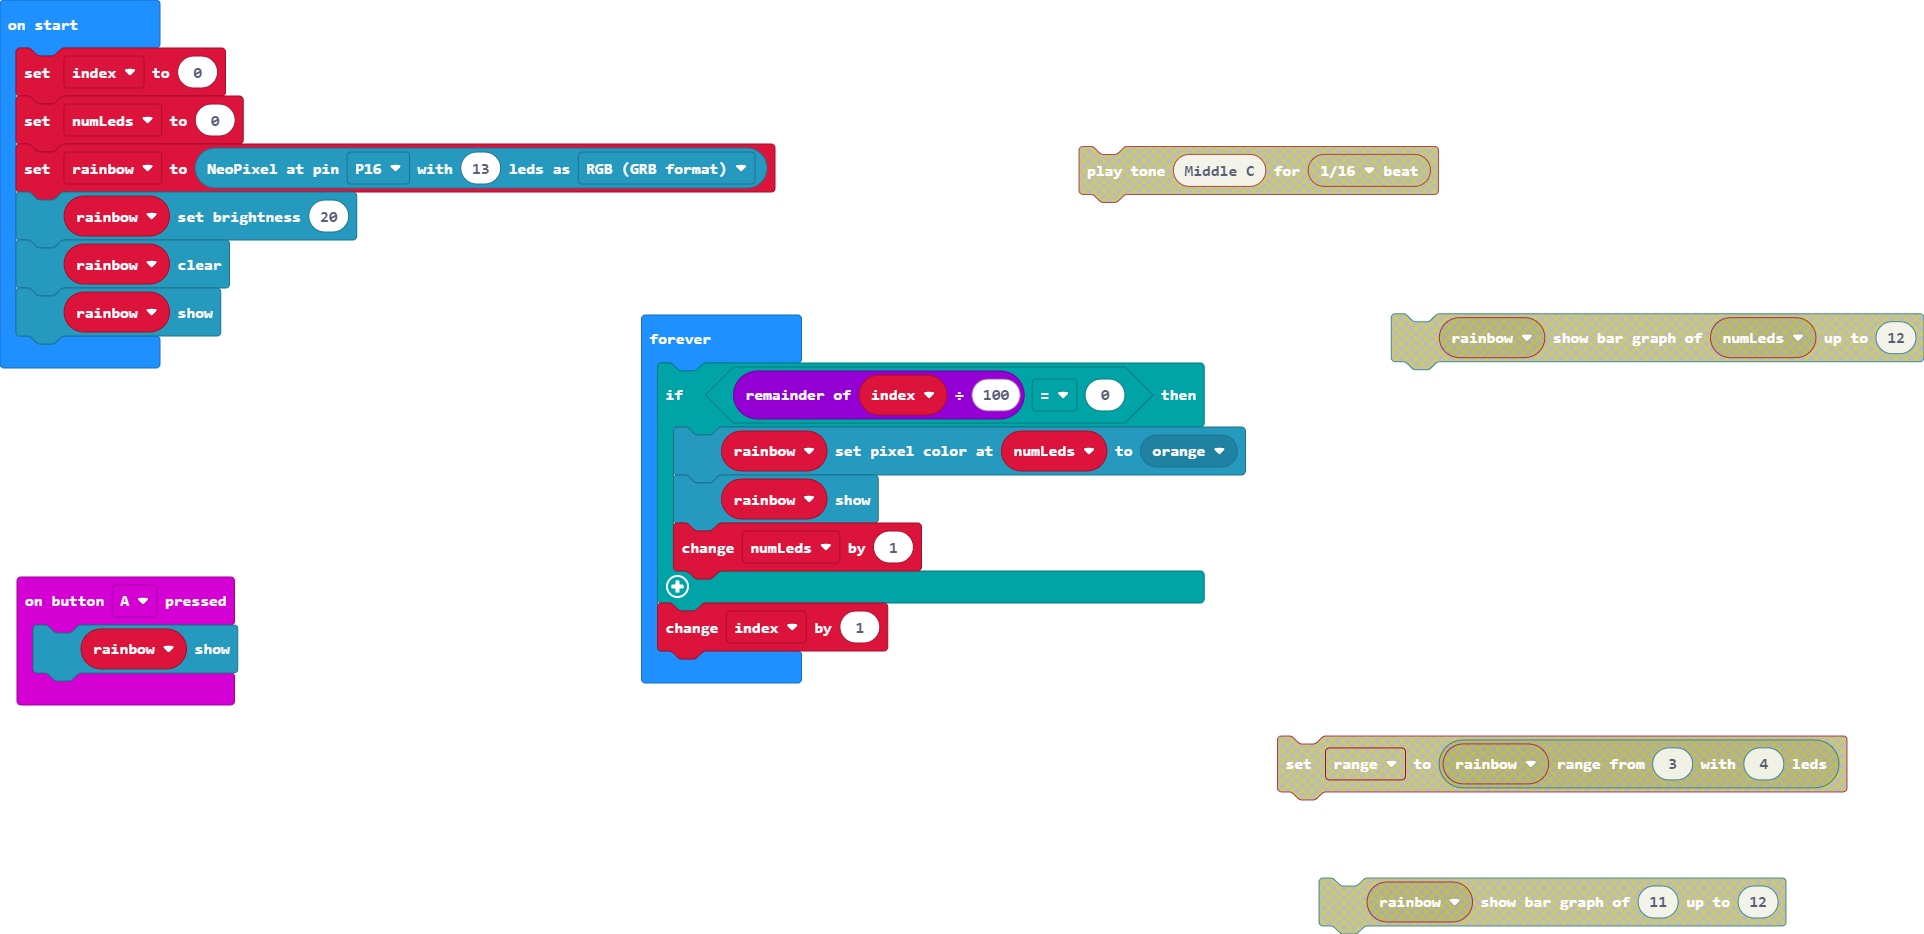
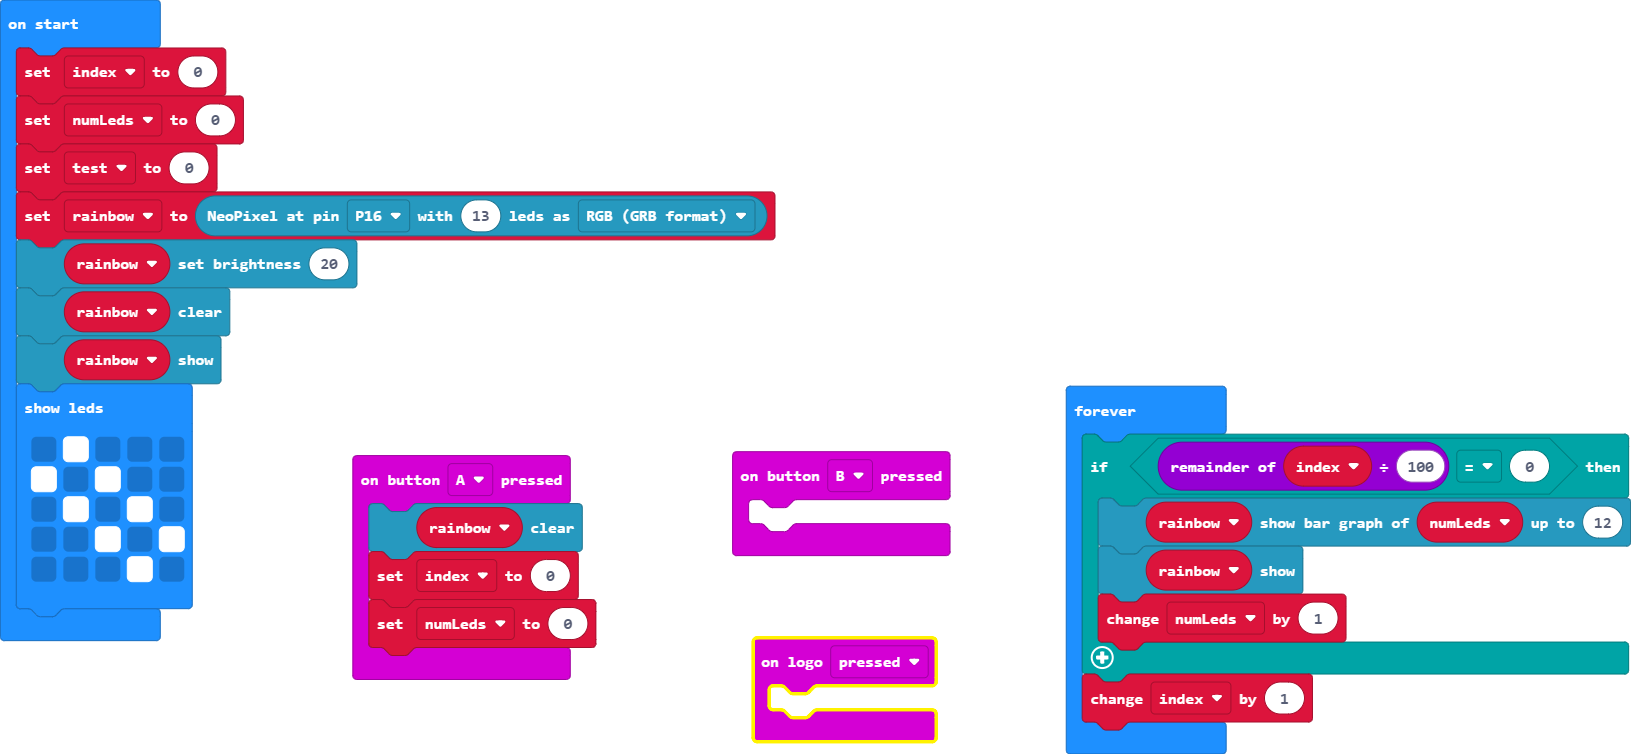
Minor updates. Use button A to reset!

diff --git a/main.ts b/main.ts
@@ -1,16 +1,34 @@
 input.onButtonPressed(Button.A, function () {
-    rainbow.show()
+    rainbow.clear()
+    index = 0
+    numLeds = 0
+})
+input.onButtonPressed(Button.B, function () {
+	
+})
+input.onLogoEvent(TouchButtonEvent.Pressed, function () {
+	
 })
 let rainbow: neopixel.Strip = null
-let index = 0
 let numLeds = 0
+let index = 0
+index = 0
+numLeds = 0
+let test = 0
 rainbow = neopixel.create(DigitalPin.P16, 13, NeoPixelMode.RGB)
 rainbow.setBrightness(20)
 rainbow.clear()
 rainbow.show()
+basic.showLeds(`
+    . # . . .
+    # . # . .
+    . # . # .
+    . . # . #
+    . . . # .
+    `)
 basic.forever(function () {
     if (index % 100 == 0) {
-        rainbow.setPixelColor(numLeds, neopixel.colors(NeoPixelColors.Orange))
+        rainbow.showBarGraph(numLeds, 12)
         rainbow.show()
         numLeds += 1
     }

diff --git a/main.py b/main.py
@@ -1,16 +1,23 @@
 def on_button_pressed_a():
-    global index
-    index += 10
+    rainbow.show()
 input.on_button_pressed(Button.A, on_button_pressed_a)
 
-index = 20
-rainbow = neopixel.create(DigitalPin.P0, 13, NeoPixelMode.RGB)
+def on_button_pressed_b():
+    pass
+input.on_button_pressed(Button.B, on_button_pressed_b)
+
+def on_logo_pressed():
+    pass
+input.on_logo_event(TouchButtonEvent.PRESSED, on_logo_pressed)
+
+rainbow: neopixel.Strip = None
+index = 0
+numLeds = 0
+rainbow = neopixel.create(DigitalPin.P16, 13, NeoPixelMode.RGB)
 rainbow.set_brightness(20)
-rainbow.show_rainbow(1, 360)
+rainbow.clear()
+rainbow.show()
 
 def on_forever():
-    strip: neopixel.Strip = None
-    rainbow.clear()
-    strip.show_bar_graph(100, 255)
-    rainbow.show()
+    pass
 basic.forever(on_forever)
